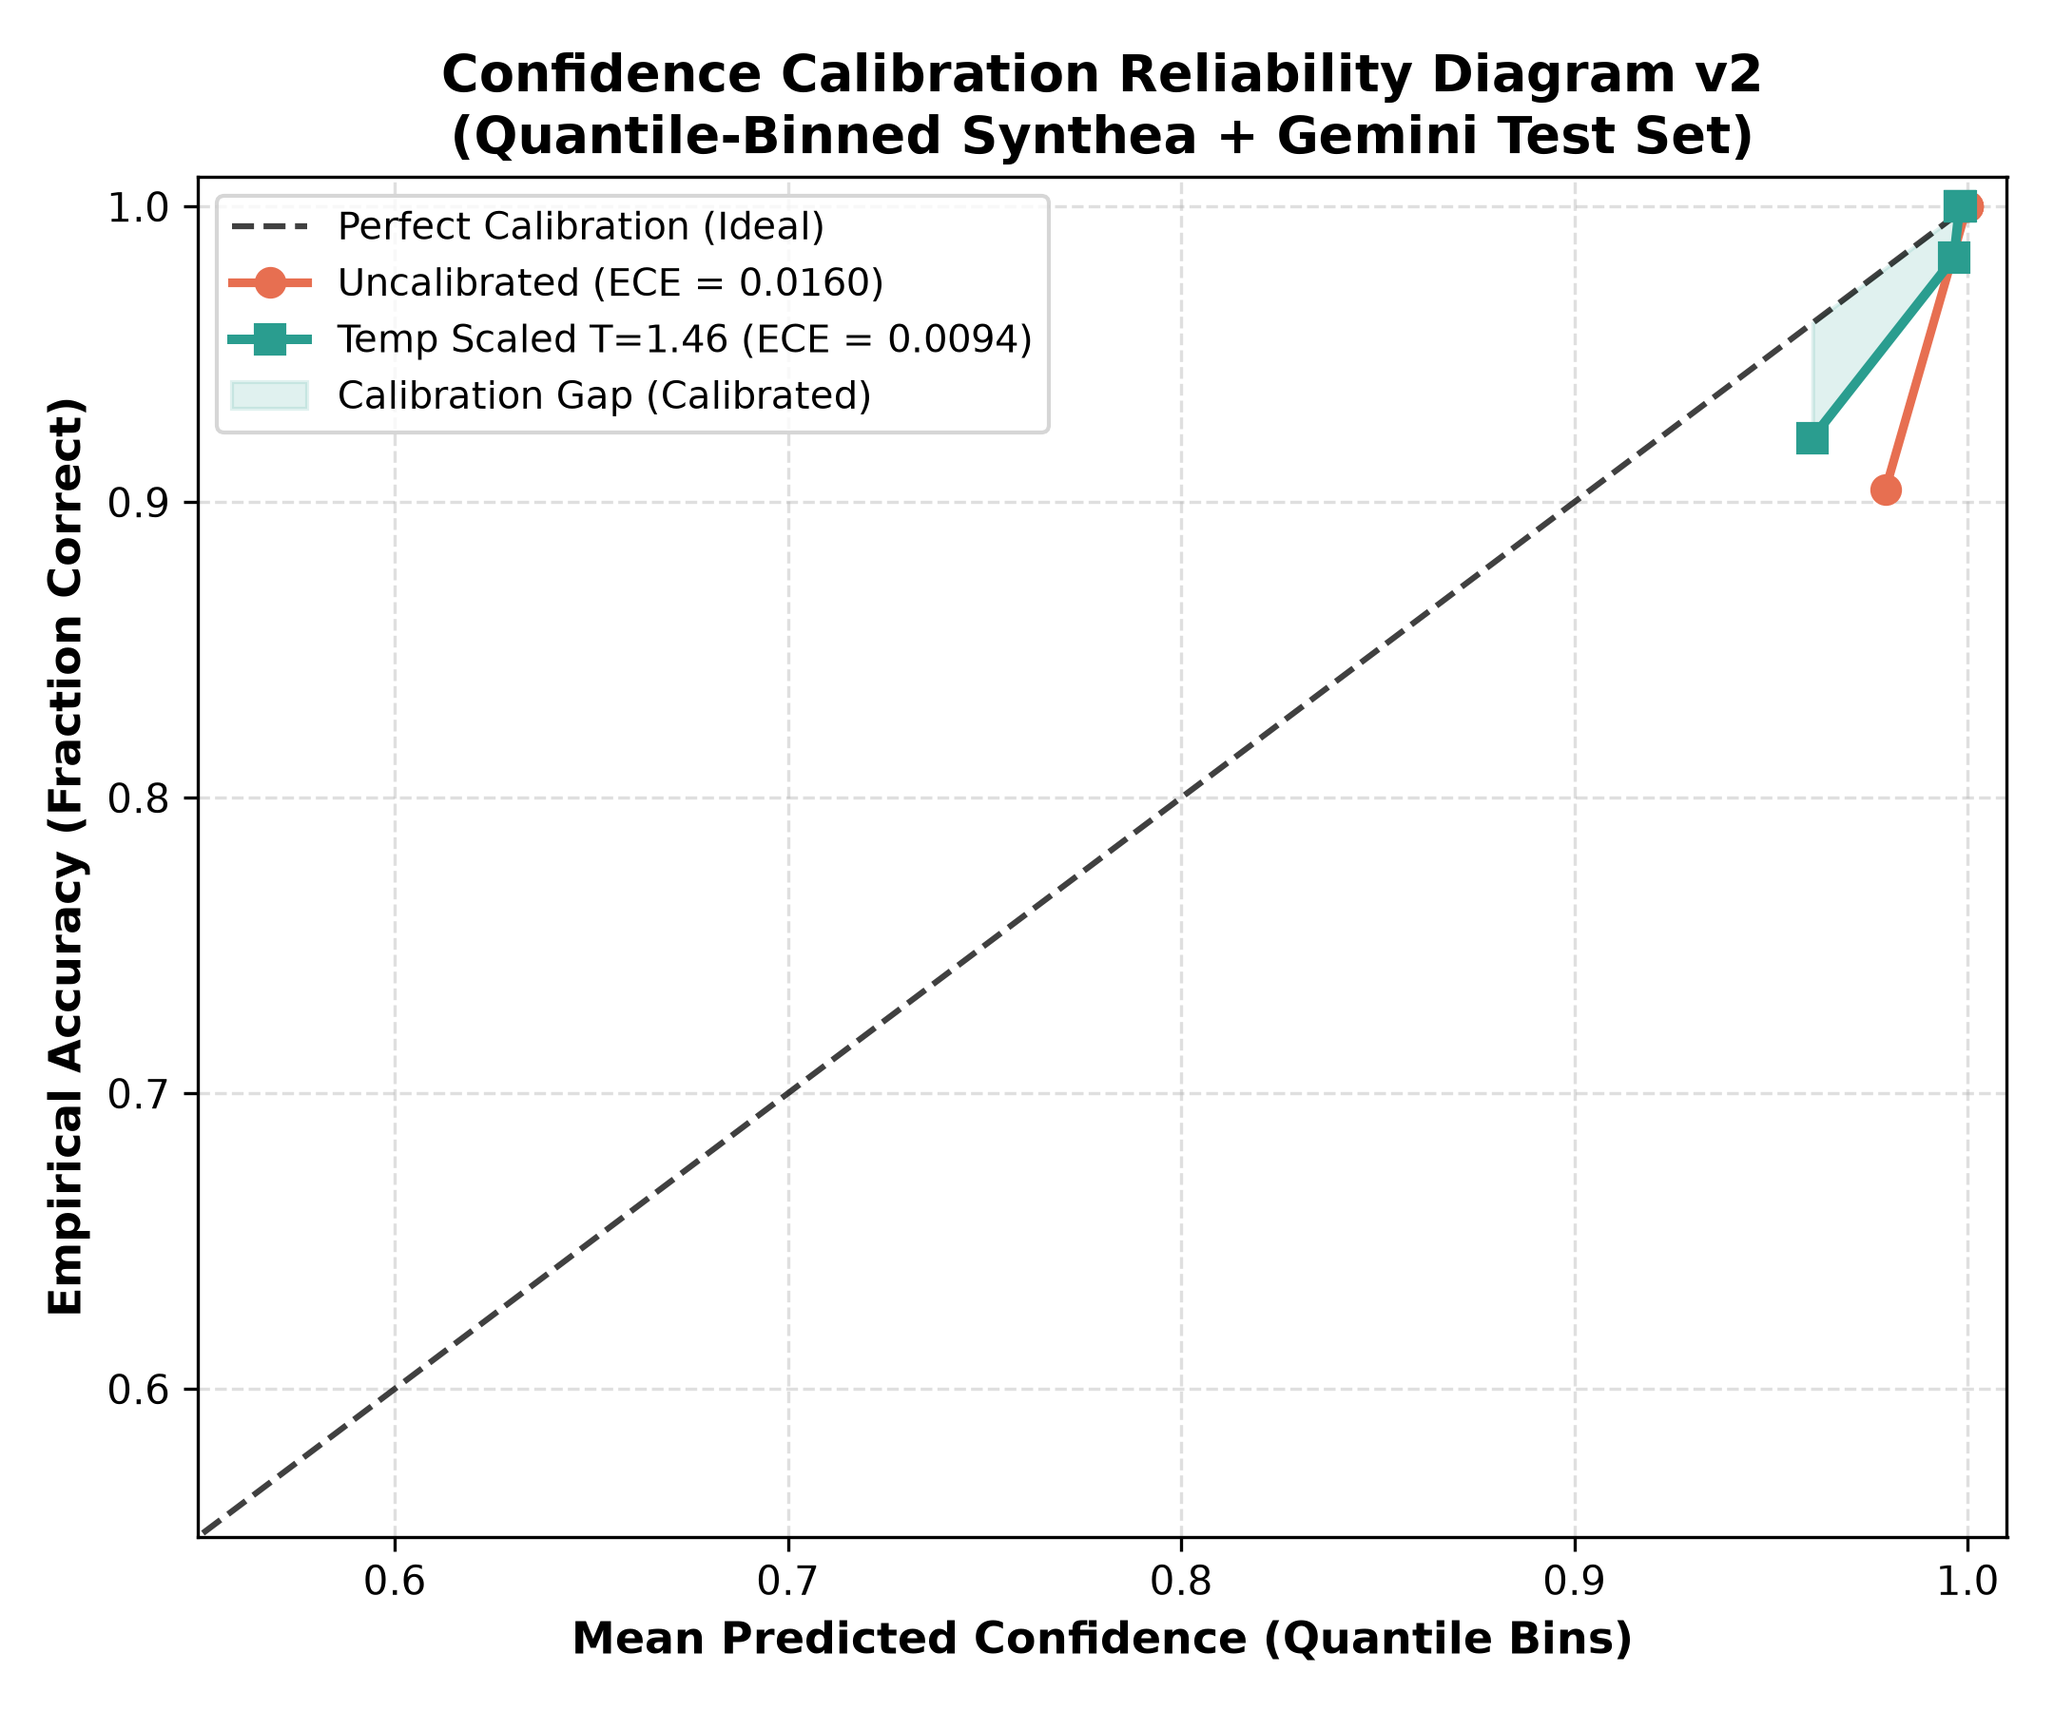
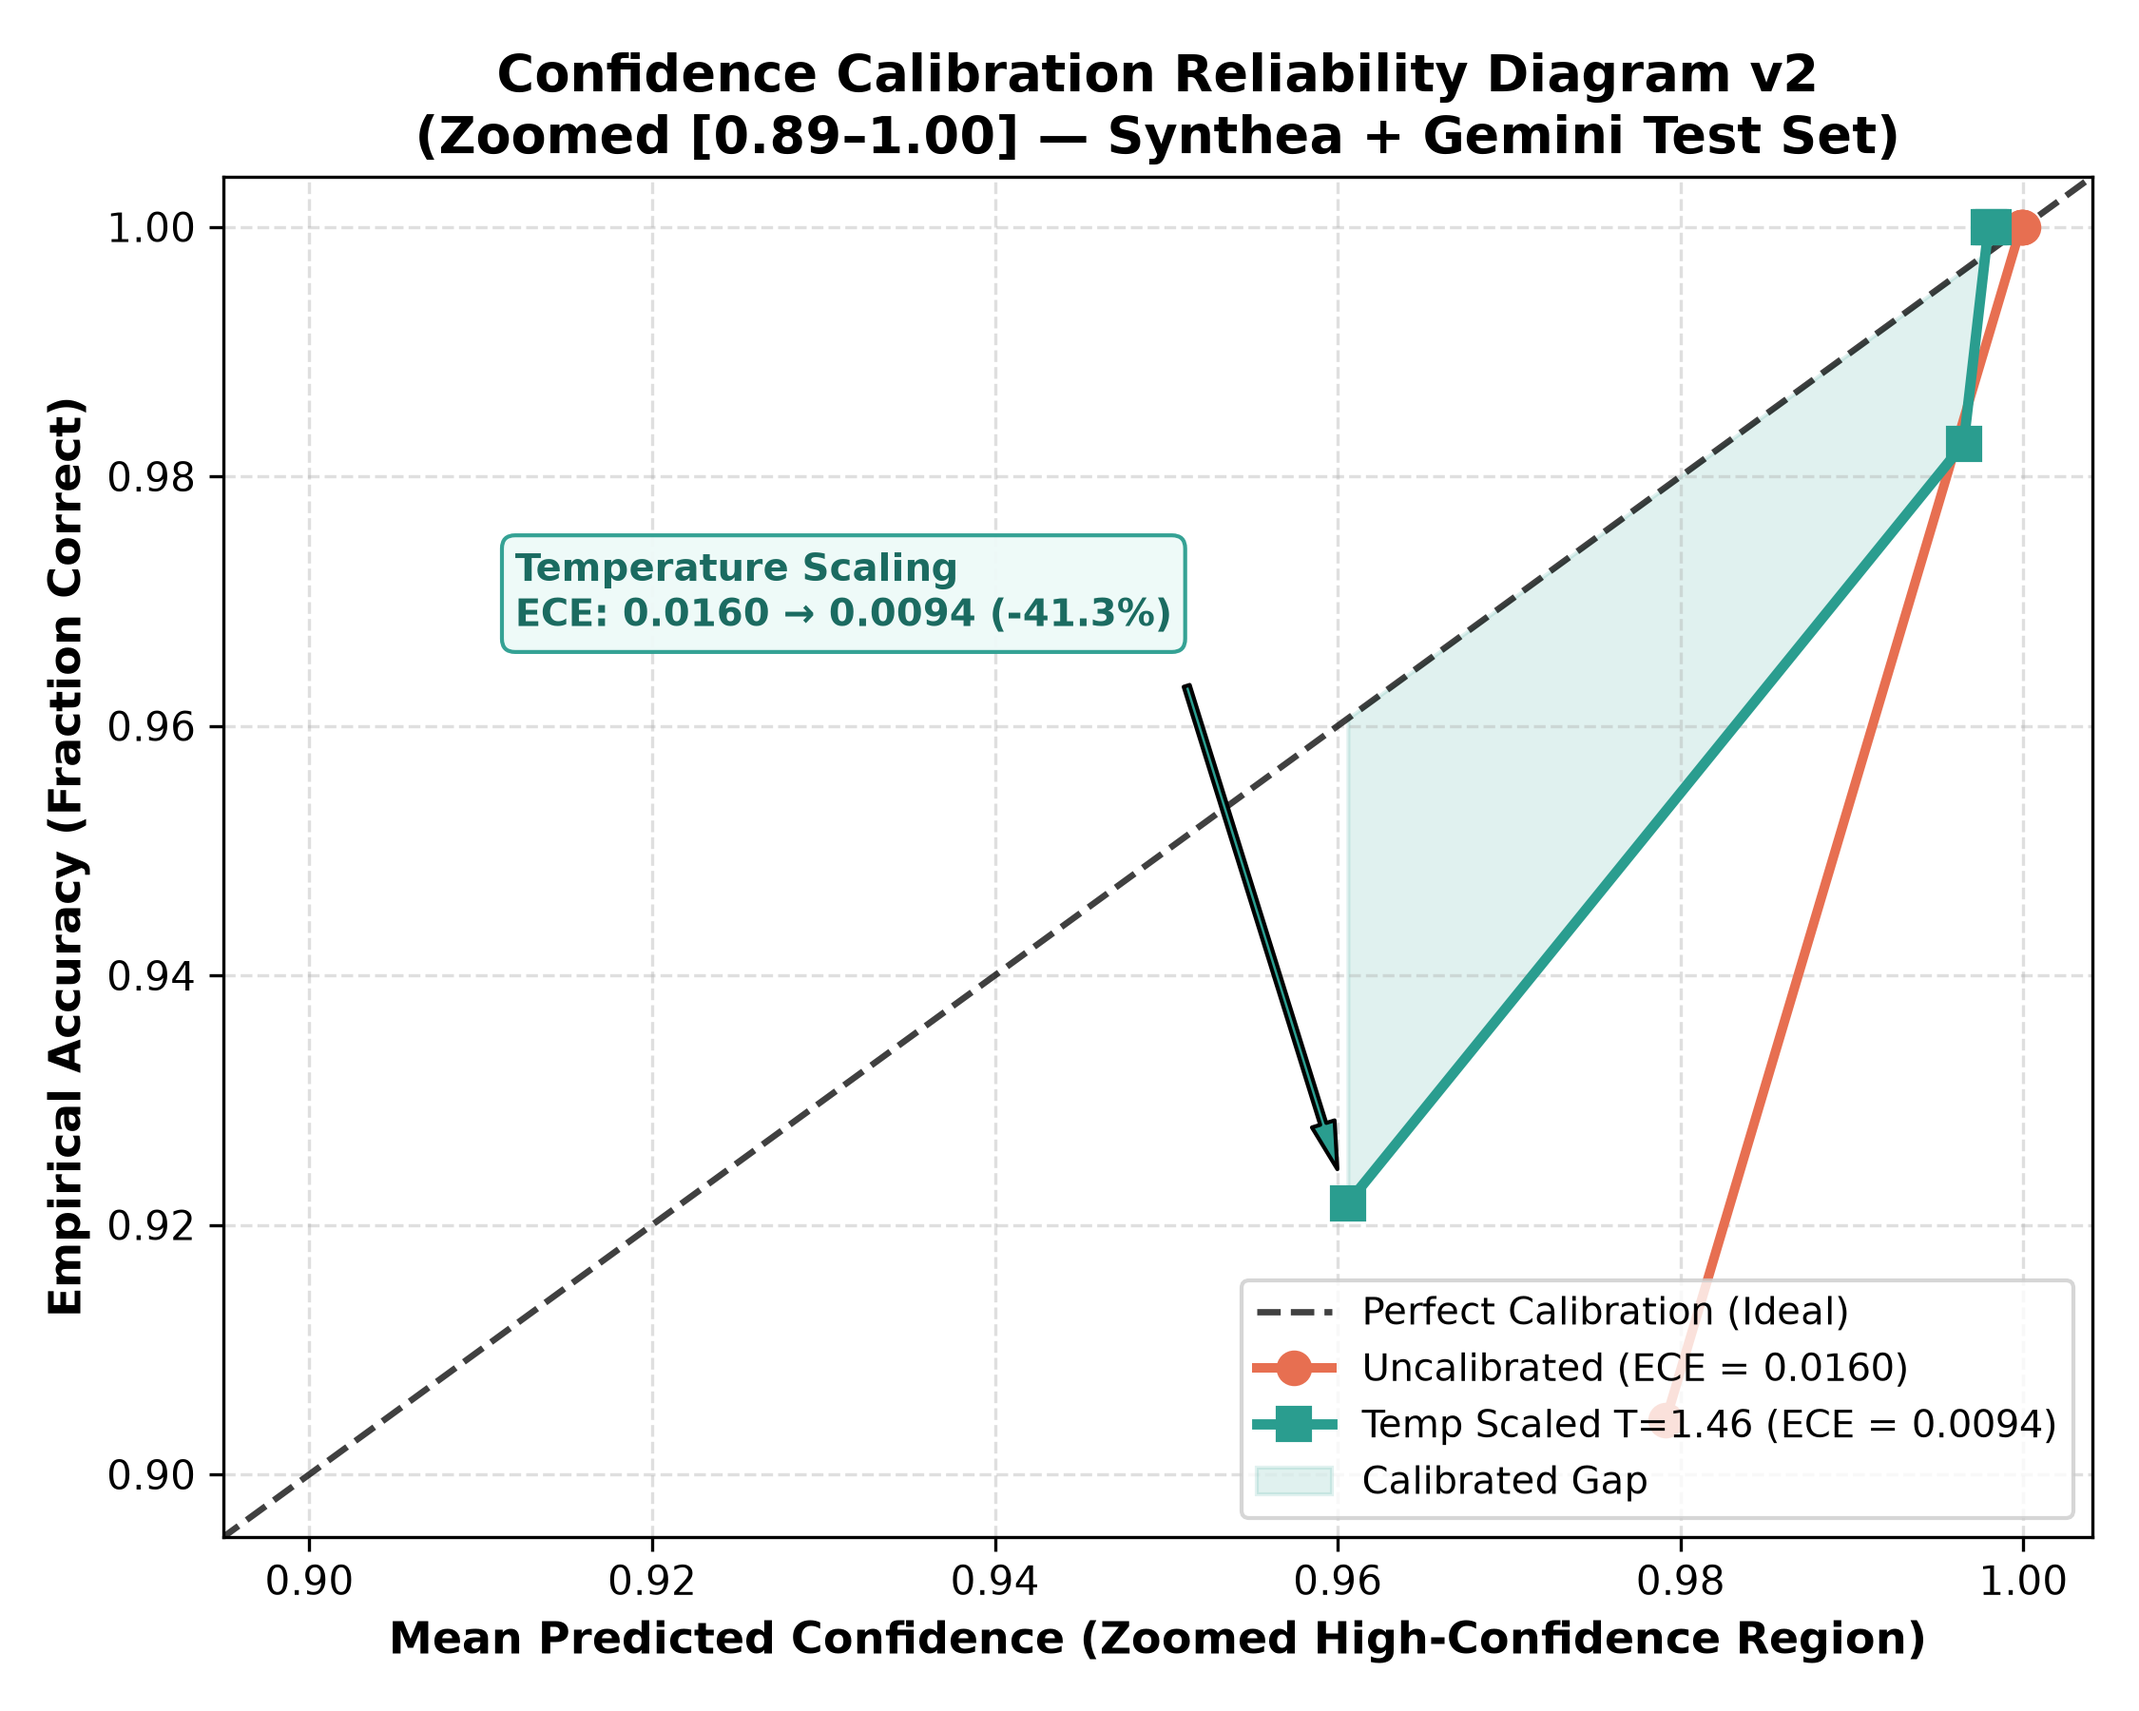
fix(plots): zoom calibration reliability curve to active [0.895, 1.00] confidence region

diff --git a/scripts/generate_evaluation_plots_v2.py b/scripts/generate_evaluation_plots_v2.py
@@ -178,25 +178,35 @@ def plot_calibration_reliability(data: dict, output_path: Path):
     cal = data["calibration"]
     ub = cal["uncalibrated_bins"]
     cb = cal["calibrated_bins"]
+    ece_drop_pct = (cal["ece_uncalibrated"] - cal["ece_calibrated"]) / max(cal["ece_uncalibrated"], 1e-9) * 100.0
 
-    fig, ax = plt.subplots(figsize=(7.2, 6), dpi=300)
-    ax.plot([0.5, 1.0], [0.5, 1.0], "k--", label="Perfect Calibration (Ideal)", alpha=0.75)
+    fig, ax = plt.subplots(figsize=(7.5, 6), dpi=300)
+    ax.plot([0.89, 1.005], [0.89, 1.005], "k--", label="Perfect Calibration (Ideal)", alpha=0.75, linewidth=1.6)
     ax.plot(ub["conf_centers"], ub["empirical_acc"], "o-",
-            label=f"Uncalibrated (ECE = {cal['ece_uncalibrated']:.4f})", color="#e76f51", linewidth=2.2, markersize=7)
+            label=f"Uncalibrated (ECE = {cal['ece_uncalibrated']:.4f})", color="#e76f51", linewidth=2.4, markersize=8)
     ax.plot(cb["conf_centers"], cb["empirical_acc"], "s-",
             label=f"Temp Scaled T={cal['temperature']:.2f} (ECE = {cal['ece_calibrated']:.4f})",
-            color="#2a9d8f", linewidth=2.4, markersize=7)
+            color="#2a9d8f", linewidth=2.6, markersize=8)
 
     ax.fill_between(cb["conf_centers"], cb["conf_centers"], cb["empirical_acc"],
-                    color="#2a9d8f", alpha=0.14, label="Calibration Gap (Calibrated)")
+                    color="#2a9d8f", alpha=0.14, label="Calibrated Gap")
 
-    ax.set_xlabel("Mean Predicted Confidence (Quantile Bins)")
+    ax.annotate(
+        f"Temperature Scaling\nECE: {cal['ece_uncalibrated']:.4f} → {cal['ece_calibrated']:.4f} (-{ece_drop_pct:.1f}%)",
+        xy=(cb["conf_centers"][0], cb["empirical_acc"][0]),
+        xytext=(0.912, 0.968),
+        arrowprops=dict(facecolor="#2a9d8f", shrink=0.06, width=1.6, headwidth=6),
+        fontweight="bold", color="#1b6b61", fontsize=9.5,
+        bbox=dict(boxstyle="round,pad=0.35", facecolor="#eefaf8", edgecolor="#2a9d8f", alpha=0.95),
+    )
+
+    ax.set_xlabel("Mean Predicted Confidence (Zoomed High-Confidence Region)")
     ax.set_ylabel("Empirical Accuracy (Fraction Correct)")
-    ax.set_title("Confidence Calibration Reliability Diagram v2\n(Quantile-Binned Synthea + Gemini Test Set)")
-    ax.set_xlim(0.55, 1.01)
-    ax.set_ylim(0.55, 1.01)
+    ax.set_title("Confidence Calibration Reliability Diagram v2\n(Zoomed [0.89–1.00] — Synthea + Gemini Test Set)")
+    ax.set_xlim(0.895, 1.004)
+    ax.set_ylim(0.895, 1.004)
     ax.grid(True, linestyle="--", alpha=0.4)
-    ax.legend(loc="upper left", frameon=True, fontsize=9.5)
+    ax.legend(loc="lower right", frameon=True, fontsize=9.5)
 
     fig.tight_layout()
     fig.savefig(output_path)
@@ -308,21 +318,30 @@ def plot_evaluation_dashboard(data: dict, output_path: Path):
         axs[1, 0].annotate(f"{h:.3f}", xy=(r.get_x() + r.get_width() / 2, h), xytext=(0, 2),
                            textcoords="offset points", ha="center", va="bottom", fontsize=8.5)
 
-    # Panel D: Calibration Curve
+    # Panel D: Calibration Curve (Zoomed High-Confidence Region)
     cal = data["calibration"]
     ub = cal["uncalibrated_bins"]
     cb = cal["calibrated_bins"]
-    axs[1, 1].plot([0.5, 1.0], [0.5, 1.0], "k--", label="Ideal Calibration", alpha=0.75)
+    ece_drop_pct = (cal["ece_uncalibrated"] - cal["ece_calibrated"]) / max(cal["ece_uncalibrated"], 1e-9) * 100.0
+    axs[1, 1].plot([0.89, 1.005], [0.89, 1.005], "k--", label="Ideal Calibration", alpha=0.75)
     axs[1, 1].plot(ub["conf_centers"], ub["empirical_acc"], "o-",
-                   label=f"Uncalibrated (ECE = {cal['ece_uncalibrated']:.4f})", color="#e76f51", linewidth=2)
+                   label=f"Uncalibrated (ECE = {cal['ece_uncalibrated']:.4f})", color="#e76f51", linewidth=2.2, markersize=7)
     axs[1, 1].plot(cb["conf_centers"], cb["empirical_acc"], "s-",
-                   label=f"Temp-Scaled T={cal['temperature']:.2f} (ECE = {cal['ece_calibrated']:.4f})", color="#2a9d8f", linewidth=2.2)
-    axs[1, 1].set_xlim(0.55, 1.01)
-    axs[1, 1].set_ylim(0.55, 1.01)
-    axs[1, 1].set_xlabel("Confidence (Quantile Bins)")
+                   label=f"Temp-Scaled T={cal['temperature']:.2f} (ECE = {cal['ece_calibrated']:.4f})", color="#2a9d8f", linewidth=2.4, markersize=7)
+    axs[1, 1].annotate(
+        f"ECE -{ece_drop_pct:.1f}%\n({cal['ece_uncalibrated']:.4f} → {cal['ece_calibrated']:.4f})",
+        xy=(cb["conf_centers"][0], cb["empirical_acc"][0]),
+        xytext=(0.915, 0.965),
+        arrowprops=dict(facecolor="#2a9d8f", shrink=0.06, width=1.4, headwidth=5),
+        fontweight="bold", color="#1b6b61", fontsize=8.5,
+        bbox=dict(boxstyle="round,pad=0.3", facecolor="#eefaf8", edgecolor="#2a9d8f", alpha=0.95),
+    )
+    axs[1, 1].set_xlim(0.895, 1.004)
+    axs[1, 1].set_ylim(0.895, 1.004)
+    axs[1, 1].set_xlabel("Confidence (Zoomed [0.895–1.00])")
     axs[1, 1].set_ylabel("Empirical Accuracy")
     axs[1, 1].set_title("(D) Confidence Calibration Reliability Curve")
-    axs[1, 1].legend(loc="upper left")
+    axs[1, 1].legend(loc="lower right", fontsize=8.5)
     axs[1, 1].grid(True, linestyle="--", alpha=0.4)
 
     fig.tight_layout(rect=[0, 0.03, 1, 0.94])
